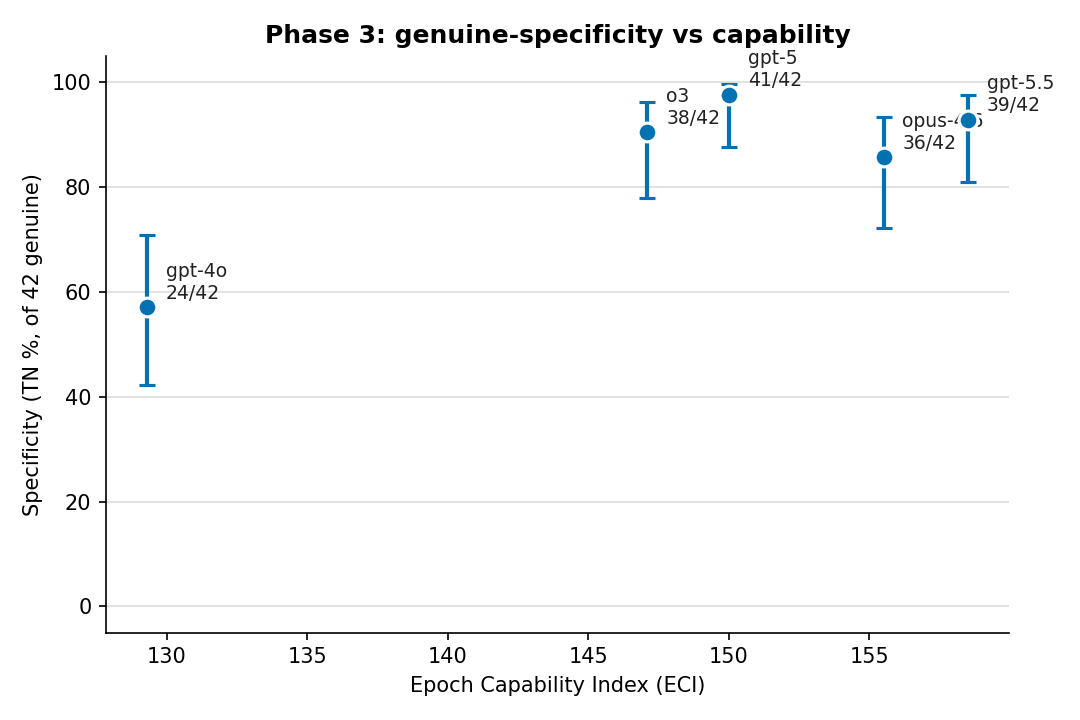
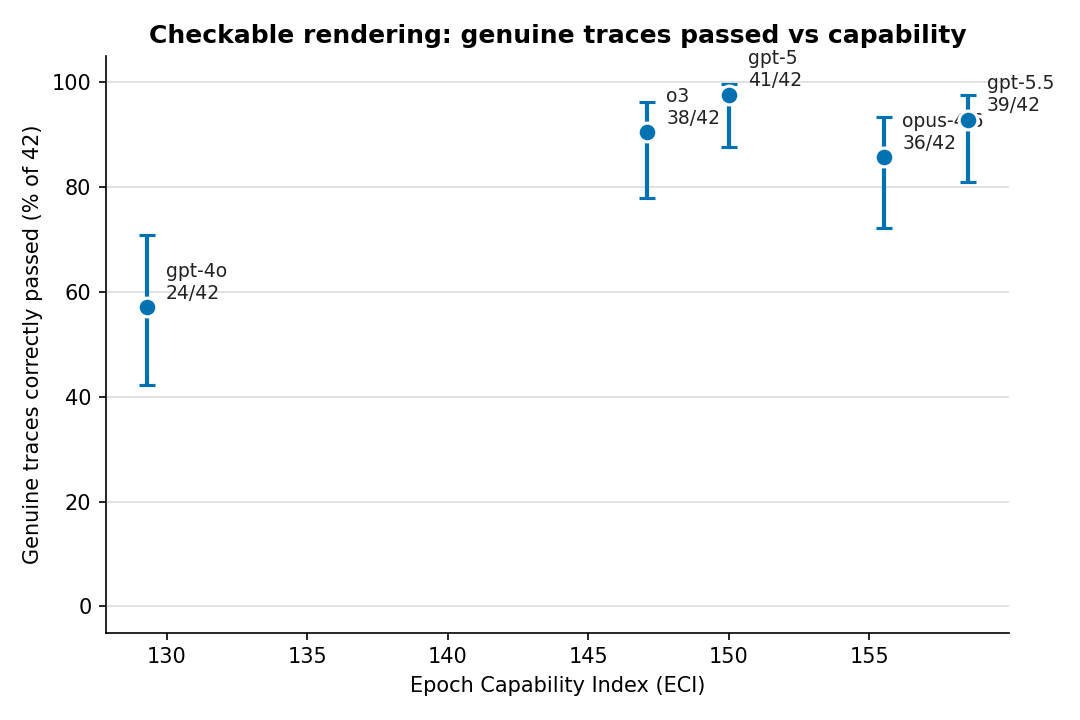
De-jargon plot labels; document AUROC imputation over the full trace pool

diff --git a/make_plots_v2.py b/make_plots_v2.py
@@ -119,16 +119,16 @@ def before_after(p3, p1b, fname):
         y3.append(100 * p3[mk]["tp"] / p3[mk]["nt"] if p3[mk]["nt"] else 0)
     x = range(len(labels))
     w = 0.38
-    ax.bar([i - w / 2 for i in x], y1b, w, label="Phase 1b (binary, no scaffold)",
+    ax.bar([i - w / 2 for i in x], y1b, w, label="raw trace (binary arithmetic)",
            color=C_P1B, zorder=3)
-    ax.bar([i + w / 2 for i in x], y3, w, label="Phase 3 (dual + JSON audit)",
+    ax.bar([i + w / 2 for i in x], y3, w, label="same trace, rendered for checking",
            color=C_P3, zorder=3)
     for i, (a, b) in enumerate(zip(y1b, y3)):
         ax.annotate(f"{a:.0f}", (i - w / 2, a), ha="center", va="bottom", fontsize=8.5, color="#222")
         ax.annotate(f"{b:.0f}", (i + w / 2, b), ha="center", va="bottom", fontsize=8.5, color="#222")
     ax.set_xticks(list(x)); ax.set_xticklabels(labels)
-    ax.set_ylabel("Mechanism-aware detection (TP_r4r %, higher is better)")
-    ax.set_title("Phase 1b -> Phase 3: tamper detection, same 84 traces",
+    ax.set_ylabel("Tamper caught, exact round named (%, higher is better)")
+    ax.set_title("Same 84 traces, two renderings: tamper detection",
                  fontsize=12, weight="bold")
     ax.set_ylim(0, 105)
     ax.legend(frameon=False, fontsize=9)
@@ -145,9 +145,9 @@ if __name__ == "__main__":
     p3 = load_phase3()
     p1b = load_phase1b()
     scatter_vs_eci(p3, "tp", "nt",
-                   "Phase 3: mechanism-aware tamper detection vs capability",
-                   "Detection (TP_r4r %, of 42 tampered)", "detection_r4r_vs_eci_v2.png")
+                   "Checkable rendering: tamper detection vs capability",
+                   "Tamper caught, exact round named (% of 42)", "detection_r4r_vs_eci_v2.png")
     scatter_vs_eci(p3, "tn", "ng",
-                   "Phase 3: genuine-specificity vs capability",
-                   "Specificity (TN %, of 42 genuine)", "specificity_vs_eci_v2.png")
+                   "Checkable rendering: genuine traces passed vs capability",
+                   "Genuine traces correctly passed (% of 42)", "specificity_vs_eci_v2.png")
     before_after(p3, p1b, "phase1b_vs_phase3_r4r.png")

diff --git a/README.md b/README.md
@@ -313,6 +313,8 @@ drowned), `claude-fable-5` 0/2 (still refuses the new framing).
 | `claude-opus-4.6` | 155.5 | **42/42 (100%)** | 36/42 (86%; 0 FP) | 6 | 1.000 (1.000-1.000) | 0.021 | 0.003% (1/34,944) |
 | `gpt-5.5` | 158.5 | **37/42 (88%)** | 39/42 (93%; 3 FP) | 0 | 0.929 (0.869-0.977) | 0.071 | 0.01% |
 
+AUROC here is computed over the full pool of 84 traces from the model's reported `p_tampered` confidence, with UNPARSEABLE (no-verdict) samples imputed at a neutral 0.5 (see `analyze_v2.py`). That is why opus-4.6 shows AUROC 1.000 alongside 36/42 specificity: its 6 genuine-side misses are no-verdict output-cap cases entered at 0.5, and its lowest tampered confidence (0.97) still ranks above every genuine trace's confidence, so the ranking is perfect even though 6 hard verdicts are missing.
+
 **Pre-registered success criteria (specificity >=85% AND detection >=50%): THREE of five models pass** -- `claude-opus-4.6` (100% / 86%), `gpt-5.5` (88% / 93%), `gpt-5` (52% / 98%). In Phase 1b the best model reached 19% detection and NONE passed. `opus-4.6` detects every tamper at every position (early/middle/late all 14/14) with zero false positives; its only genuine-side failures are 6 UNPARSEABLE (its longest-reasoning genuine traces still hit the output cap even with the bounded schema -- the residual of Phase 1b/2's opus problem, now 6/42 instead of 6/6).
 
 **Two structural non-improvers, reported honestly:** `gpt-4o` has no reasoning channel, so it cannot think through ~700 local checks (0% detection, 18/42 false flags, AUROC below chance) -- it is the run-to-run noise anchor, not a capability data point. `o3` is a genuine anomaly: at `effort: high` it barely populated the audit JSON and detected 0/42 (AUROC 0.445, below chance), consistent with it being the worst model in Phase 1b too. So the ECI scaling is monotone among the models that engage the task (gpt-5 52% -> opus-4.6/gpt-5.5 88-100%), with o3 off-trend.
@@ -321,7 +323,7 @@ drowned), `claude-fable-5` 0/2 (still refuses the new framing).
 
 **Phase 1b -> Phase 3, same 84 traces** (`plots/phase1b_vs_phase3_r4r.png`): gpt-4o 0->0, o3 1->0, gpt-5 0->22, opus-4.6 8->42, gpt-5.5 5->37 (out of 42). Scaling plots: `plots/detection_r4r_vs_eci_v2.png`, `plots/specificity_vs_eci_v2.png`.
 
-**Honest framing (from the proposal's validity section):** this is the MAXIMAL-OBSERVABILITY bound -- "can a frontier model verify a trace rendered for checkability," not "will it spontaneously verify any trace." In a real TEE deployment the protocol designer chooses the attestation format, so the format-optimized number is the deployment-relevant one; Phase 1b remains the number for adversarially/carelessly formatted traces. Both are reported.
+**Honest framing (from the proposal's validity section):** this is the MAXIMAL-OBSERVABILITY bound -- "can a frontier model verify a trace rendered for checkability," not "will it spontaneously verify any trace." A second bound in the same direction: the tampers are seeded single-bit flips spread across position buckets, NOT adversarially optimized against the verifier; nobody searched for the round a given model finds hardest to check, and a real adversary can iterate tamper placement against a fixed model until it finds blind spots. An adversarial-tamper arm is the natural follow-up. In a real TEE deployment the protocol designer chooses the attestation format, so the format-optimized number is the deployment-relevant one; Phase 1b remains the number for adversarially/carelessly formatted traces. Both are reported.
 
 **Total spend: $458.80** (under the $560 hard cap), computed = tokens x live prices as of 2026-07-11 (Inspect logs store tokens, not cost): opus-4.6 $214.61, gpt-5.5 $176.86 (Arm A + Arm B), gpt-5 $31.43, gpt-4o $17.46, o3 $12.25, probes opus-4.8 $5.49 + fable-5 $0.71.
 